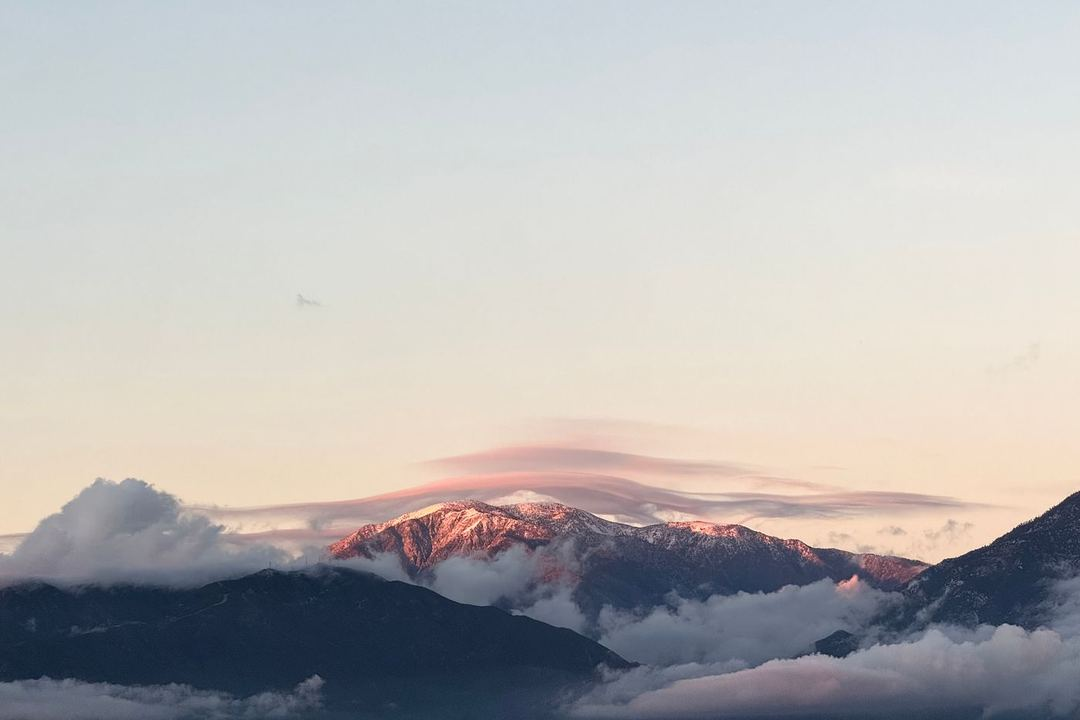
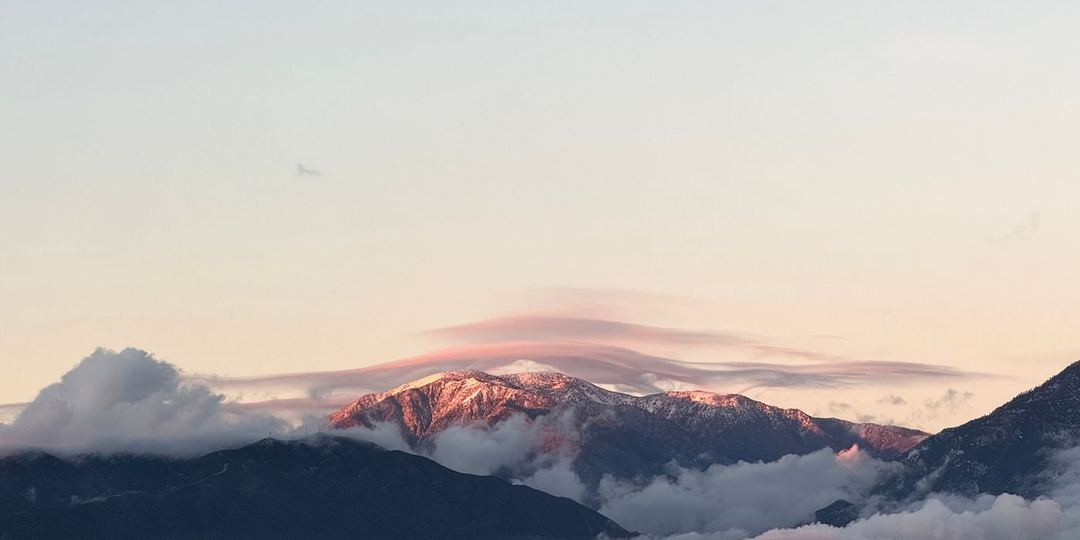
home: photos cropped around their subject, wide and tall
Each photo ships as a 2:1 wide crop for the Home card and a 4:5 tall crop for Daily Promise,
the share card and Welcome, both cut around a chosen focal point so the cross, the hills and
the window stay in frame.

Claude-Session: https://claude.ai/code/session_016XNfgW3g8GyXyYJvQ4beLd

diff --git a/apps/mobile/src/ui/Scene.tsx b/apps/mobile/src/ui/Scene.tsx
@@ -4,14 +4,15 @@ import { Image, StyleSheet, View, type StyleProp, type ViewStyle } from 'react-n
 /** Seven photographs (Pexels, free licence), each a different place and light. */
 export type SceneVariant = 'cross' | 'mountains' | 'night' | 'sea' | 'hills' | 'rays' | 'glass';
 
-const photos: Record<SceneVariant, number> = {
-  cross: require('../../assets/promise/cross.jpg'),
-  mountains: require('../../assets/promise/mountains.jpg'),
-  night: require('../../assets/promise/night.jpg'),
-  sea: require('../../assets/promise/sea.jpg'),
-  hills: require('../../assets/promise/hills.jpg'),
-  rays: require('../../assets/promise/rays.jpg'),
-  glass: require('../../assets/promise/glass.jpg'),
+/** Each photo is bundled twice, cropped around its subject: wide (2:1) for cards, tall (4:5) for full screens. */
+const photos: Record<SceneVariant, { wide: number; tall: number }> = {
+  cross: { wide: require('../../assets/promise/cross.jpg'), tall: require('../../assets/promise/cross-tall.jpg') },
+  mountains: { wide: require('../../assets/promise/mountains.jpg'), tall: require('../../assets/promise/mountains-tall.jpg') },
+  night: { wide: require('../../assets/promise/night.jpg'), tall: require('../../assets/promise/night-tall.jpg') },
+  sea: { wide: require('../../assets/promise/sea.jpg'), tall: require('../../assets/promise/sea-tall.jpg') },
+  hills: { wide: require('../../assets/promise/hills.jpg'), tall: require('../../assets/promise/hills-tall.jpg') },
+  rays: { wide: require('../../assets/promise/rays.jpg'), tall: require('../../assets/promise/rays-tall.jpg') },
+  glass: { wide: require('../../assets/promise/glass.jpg'), tall: require('../../assets/promise/glass-tall.jpg') },
 };
 
 const ALL = Object.keys(photos) as SceneVariant[];
@@ -28,18 +29,18 @@ export function randomSceneVariant(): SceneVariant {
 
 type Props = {
   variant?: SceneVariant;
+  /** 'wide' for the Home card, 'tall' for the promise screen, the share card and Welcome. */
+  shape?: 'wide' | 'tall';
   /** Darkens the lower part so white text stays readable on top of it. */
   dim?: boolean;
-  /** Kept for callers; photos are centred in any box. */
-  align?: 'center' | 'right';
   style?: StyleProp<ViewStyle>;
 };
 
 /** A photograph filling its box, with an optional dark fade for text laid over it. */
-export function Scene({ variant = 'mountains', dim = false, style }: Props) {
+export function Scene({ variant = 'mountains', shape = 'wide', dim = false, style }: Props) {
   return (
     <View pointerEvents="none" style={[{ overflow: 'hidden', backgroundColor: '#1E2D42' }, style]}>
-      <Image source={photos[variant]} resizeMode="cover" style={StyleSheet.absoluteFill} />
+      <Image source={photos[variant][shape]} resizeMode="cover" style={StyleSheet.absoluteFill} />
       {dim ? (
         <LinearGradient colors={['rgba(11,21,38,0.05)', 'rgba(11,21,38,0.35)', 'rgba(11,21,38,0.8)']} locations={[0, 0.5, 1]} style={StyleSheet.absoluteFill} />
       ) : null}

diff --git a/apps/mobile/src/features/home/VerseShareCard.tsx b/apps/mobile/src/features/home/VerseShareCard.tsx
@@ -36,7 +36,7 @@ export const VerseShareCard = forwardRef<View, VerseShareCardProps>(function Ver
   const verseLine = telugu ? (long ? 30 : 34) : long ? 30 : 35;
   return (
     <View ref={ref} collapsable={false} style={{ width: W, height: H, backgroundColor: '#1E2D42', overflow: 'hidden' }}>
-      <Scene variant={sky} dim align="right" style={{ position: 'absolute', top: 0, left: 0, right: 0, bottom: 0 }} />
+      <Scene variant={sky} shape="tall" dim style={{ position: 'absolute', top: 0, left: 0, right: 0, bottom: 0 }} />
       {/* A darker veil in the middle so the verse reads on the bright skies too. */}
       <View style={{ position: 'absolute', left: 0, right: 0, top: 0, bottom: 0, backgroundColor: 'rgba(11,21,38,0.28)' }} />
       <View style={{ flex: 1, paddingHorizontal: 30, paddingTop: 30, paddingBottom: 24, alignItems: 'center', justifyContent: 'space-between' }}>

diff --git a/apps/mobile/app/promise.tsx b/apps/mobile/app/promise.tsx
@@ -25,7 +25,7 @@ export default function PromiseScreen() {
   return (
     <Screen edges={['bottom']} scroll className="gap-6 pt-4">
       <View className="overflow-hidden rounded-[16px]" style={{ height: 380 }}>
-        <Scene variant={sky} dim style={{ position: 'absolute', top: 0, left: 0, right: 0, bottom: 0 }} />
+        <Scene variant={sky} shape="tall" dim style={{ position: 'absolute', top: 0, left: 0, right: 0, bottom: 0 }} />
         <View className="flex-1 items-center justify-center gap-4 px-7">
           <Text variant="caption" color="cream" style={{ letterSpacing: 2.5 }}>
             {t('promise.today').toUpperCase()}

diff --git a/apps/mobile/app/(auth)/welcome.tsx b/apps/mobile/app/(auth)/welcome.tsx
@@ -20,7 +20,7 @@ export default function WelcomeScreen() {
   return (
     <View style={{ flex: 1, backgroundColor: '#1E2D42' }}>
       <StatusBar style="light" />
-      <Scene dim style={StyleSheet.absoluteFill} />
+      <Scene variant="cross" shape="tall" dim style={StyleSheet.absoluteFill} />
       <SafeAreaView style={{ flex: 1 }} edges={['top', 'bottom']}>
         <ScrollView
           horizontal
